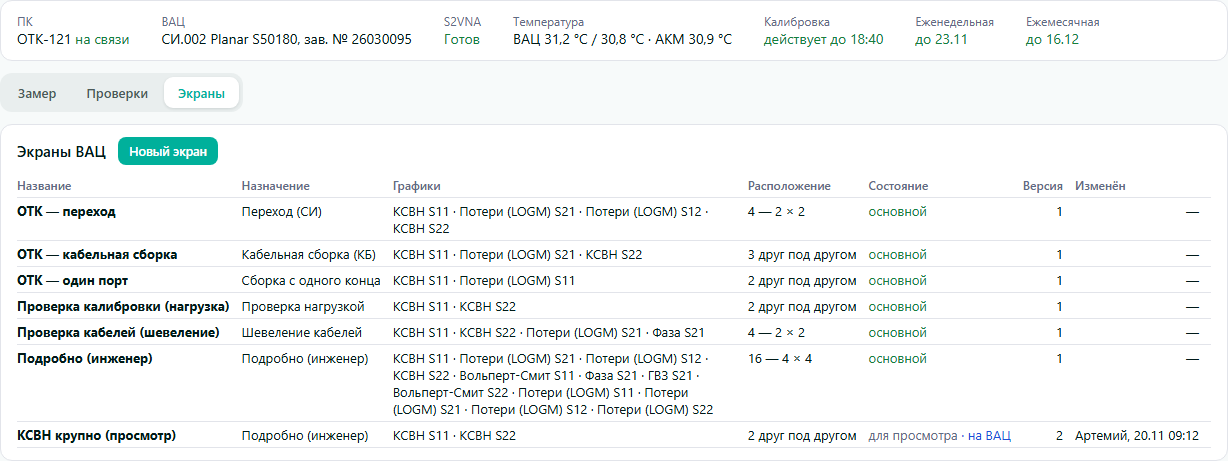
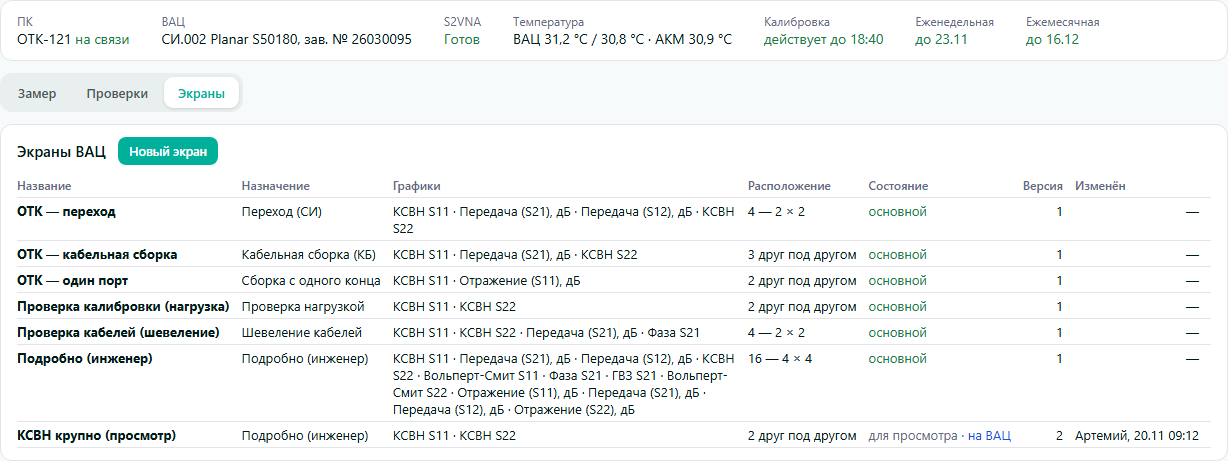
[quality] ВАЦ: неразрывные пробелы в единицах, подтверждения «Прервать» и «Закрыть сеанс», предупреждение о несохранённом экране, подписи графиков без кодов, цифры осей КСВН табличные

diff --git a/frontend/src/VnaBench.tsx b/frontend/src/VnaBench.tsx
@@ -1,8 +1,8 @@
 import { useEffect, useRef, useState, type FormEvent, type KeyboardEvent } from "react";
 import { ApiError, failureText, productionApi, type ProductionInstrument } from "./api";
-import { formatMoment, formatNumber, toNumber } from "./format";
+import { formatMoment, formatNumber, glueUnits, toNumber } from "./format";
 import { VswrChart } from "./VswrChart";
-import { ScreenSwitcher, VnaScreensEditor } from "./VnaScreensEditor";
+import { ScreenSwitcher, VnaScreensEditor, lossTitle } from "./VnaScreensEditor";
 import {
   CALIBRATION_REFUSALS,
   REFUSAL_FALLBACK,
@@ -51,7 +51,7 @@ export const STEP_TITLES: Record<VnaBenchStepKey, string> = {
 const STEP_ORDER: VnaBenchStepKey[] = ["calibration", "confidence", "load_port1", "load_port2"];
 const STEP_HINTS: Record<VnaBenchStepKey, string> = {
   calibration: "Подключите АКМ к концам обоих кабелей: порт 1 и порт 2. Кабели закрепите — после калибровки их не двигать. Калибровка идёт около 30 секунд, сразу за ней — доверительный тест.",
-  confidence: "Тест идёт сам сразу после калибровки — АКМ с кабелей не снимайте. Норма: передача ±0,1 дБ, отражение ±0,4 дБ до 10 ГГц и ±0,5 дБ выше.",
+  confidence: "Тест идёт сам сразу после калибровки — АКМ с кабелей не снимайте. Норма: передача ±0,1 дБ, отражение ±0,4 дБ до 10 ГГц и ±0,5 дБ выше.",
   load_port1: "Отключите АКМ, не сдвигая кабели. Наверните нагрузку LOAD 6650F27 на кабель порта 1 и затяните тарированным ключом. Норма — КСВН не больше 1,06 во всей полосе.",
   load_port2: "Перенесите нагрузку LOAD на кабель порта 2 и затяните ключом. Норма та же — КСВН не больше 1,06.",
 };
@@ -78,9 +78,9 @@ export const VERDICTS: Record<VnaBenchVerdict["code"], { label: string; tone: st
 };
 
 const CHECKS: { kind: VnaBenchCheckKind; title: string; what: string }[] = [
-  { kind: "flex", title: "Шевеление кабелей", what: "При каждой калибровке. LOAD на кабеле: КСВН остаётся ≤ 1,06; перемычка: S21 меняется не больше ±0,05 дБ." },
+  { kind: "flex", title: "Шевеление кабелей", what: "При каждой калибровке. LOAD на кабеле: КСВН остаётся ≤ 1,06; перемычка: S21 меняется не больше ±0,05 дБ." },
   { kind: "weekly", title: "Еженедельная — контрольная мера СИ.009", what: "Переход ADP1A СИ.009 сравнивается с эталонной кривой из его карточки: отклонение КСВН и S21 не больше U." },
-  { kind: "monthly", title: "Ежемесячная — меры 6650F27", what: "OPEN, SHORT, LOAD на каждом порту и перемычка: 0 дБм, ПЧ 1 кГц, три подключения с поворотом на 120°." },
+  { kind: "monthly", title: "Ежемесячная — меры 6650F27", what: "OPEN, SHORT, LOAD на каждом порту и перемычка: 0 дБм, ПЧ 1 кГц, три подключения с поворотом на 120°." },
 ];
 const CHECK_TITLES = Object.fromEntries(CHECKS.map((check) => [check.kind, check.title])) as Record<VnaBenchCheckKind, string>;
 
@@ -93,7 +93,7 @@ export function phaseHint(kind: VnaBenchCheckKind, phase: VnaBenchCheckPhase): s
       load_p1: "Наверните LOAD на кабель порта 1 и изогните кабель в рабочих пределах — КСВН должен остаться не больше 1,06.",
       load_p2: "Перенесите LOAD на кабель порта 2 и изогните кабель в рабочих пределах — КСВН должен остаться не больше 1,06.",
       thru_memory: "Соедините концы кабелей перемычкой и держите кабели в рабочем положении — прибор запомнит графики.",
-      thru_flex: "Изогните кабели в рабочих пределах — S21 должен меняться не больше чем на ±0,05 дБ.",
+      thru_flex: "Изогните кабели в рабочих пределах — S21 должен меняться не больше чем на ±0,05 дБ.",
     }[phase.key] ?? phase.label;
   }
   if (kind === "weekly") {
@@ -144,7 +144,7 @@ export function VnaBench({ canEdit }: { canEdit: boolean }) {
     return () => { active = false; };
   }, [attempt]);
 
-  // Пока агент выполняет команду — опрос раз в 2 с; без команды экран не дёргает сервер.
+  // Пока агент выполняет команду — опрос раз в 2 с; без команды экран не дёргает сервер.
   const polling = sessionBusy(state);
   useEffect(() => {
     if (!polling) return;
@@ -222,7 +222,7 @@ export function VnaBench({ canEdit }: { canEdit: boolean }) {
     {session?.command && <div className="vna-bench-command" role="status">
       <span>Выполняется: {session.command.label}{session.command.state === "queued" ? " — ждёт агента" : ""}, с {clock(session.command.since)}</span>
       {canAct && <button type="button" className="secondary small" disabled={Boolean(busy)}
-        onClick={() => void act("abort", () => vnaBenchApi.abort(session.id, session.version))}>Прервать</button>}
+        onClick={() => { if (window.confirm(`Прервать «${session.command?.label}»? Измерение остановится, результат не сохранится.`)) void act("abort", () => vnaBenchApi.abort(session.id, session.version)); }}>Прервать</button>}
     </div>}
     <div className="seg-tabs sub" role="tablist" aria-label="Разделы рабочего места ВАЦ" onKeyDown={tabKeys}>
       {TABS.map((item) => <button key={item.id} type="button" role="tab" id={`vna-bench-tab-${item.id}`} aria-controls="vna-bench-panel"
@@ -233,7 +233,7 @@ export function VnaBench({ canEdit }: { canEdit: boolean }) {
       {!session && tab === "measure" && <div className="panel vna-bench-start">
         <p>Сеанс не открыт. Перед началом: ВАЦ включён и прогрет не меньше 40 минут, S2VNA показывает «Готов», АКМ подключён по USB
           и горит зелёным, разъёмы осмотрены и почищены. Сеанс для СИ и проверок калибруется на сетке «ОТК — переход»
-          (10 МГц – 18 ГГц); для КБ найдите изделие ниже — сеанс откроется на полосе его ЭТК.</p>
+          (10 МГц – 18 ГГц); для КБ найдите изделие ниже — сеанс откроется на полосе его ЭТК.</p>
         {canAct && state.device.s2vna_ready === false && <p className="tone-warn">Начать можно, когда S2VNA покажет «Готов».</p>}
         {canAct && <button type="button" className="primary" disabled={Boolean(busy) || notReady}
           onClick={() => void open()}>Открыть сеанс для СИ и проверок</button>}
@@ -247,7 +247,7 @@ export function VnaBench({ canEdit }: { canEdit: boolean }) {
         busy={Boolean(busy)} blockedStart={notReady} act={act} open={(assembly) => void open(assembly)} />}
       {session && tab === "measure" && canAct && <div className="form-actions vna-bench-close">
         <button type="button" className="secondary small" disabled={Boolean(busy) || Boolean(session.command)}
-          onClick={() => void act("close", () => vnaBenchApi.close(session.id, session.version))}>Закрыть сеанс</button>
+          onClick={() => { if (window.confirm("Закрыть сеанс? Калибровка и шаги текущего сеанса будут сброшены.")) void act("close", () => vnaBenchApi.close(session.id, session.version)); }}>Закрыть сеанс</button>
       </div>}
       {tab === "checks" && <ChecksPanel state={state} session={session} canEdit={canAct} busy={Boolean(busy)} act={act} />}
       {tab === "screens" && <VnaScreensEditor session={session} calibrationValid={state.calibration.valid} canEdit={canEdit}
@@ -259,8 +259,8 @@ export function VnaBench({ canEdit }: { canEdit: boolean }) {
 function temperatureText(state: VnaBenchState): string {
   const t = state.device.temperatures;
   if (!t) return "нет данных";
-  const vna = t.vna_c.map((value) => value === null ? "—" : `${num(value, 1)} °C`).join(" / ");
-  return `ВАЦ ${vna} · АКМ ${t.acm_c === null ? "—" : `${num(t.acm_c, 1)} °C`}`;
+  const vna = t.vna_c.map((value) => value === null ? "—" : `${num(value, 1)} °C`).join(" / ");
+  return `ВАЦ ${vna} · АКМ ${t.acm_c === null ? "—" : `${num(t.acm_c, 1)} °C`}`;
 }
 
 export function dueText(due: VnaBenchDue | undefined): { text: string; tone: string } {
@@ -287,7 +287,7 @@ function BenchHeader({ state }: { state: VnaBenchState }) {
       <div><dt>ПК</dt><dd>{device.pc_name ?? "—"} <span className={device.agent_online ? "tone-ok" : "tone-danger"}>{device.agent_online ? "на связи" : "нет связи"}</span></dd></div>
       <div><dt>ВАЦ</dt><dd>{device.instrument_number} {device.model}{device.serial ? `, зав. № ${device.serial}` : ""}</dd></div>
       <div><dt>S2VNA</dt><dd className={ready ? "tone-ok" : "tone-warn"}>{ready ? "Готов" : device.s2vna_ready === false
-        ? `Не готов${device.warmup_min !== null ? ` — прогрев ${device.warmup_min} из 40 мин` : ""}` : "нет данных"}</dd></div>
+        ? `Не готов${device.warmup_min !== null ? ` — прогрев ${device.warmup_min} из 40 мин` : ""}` : "нет данных"}</dd></div>
       <div><dt>Температура</dt><dd className="num">{temperatureText(state)}</dd></div>
       <div><dt>Калибровка</dt><dd className={calibration.valid ? "tone-ok" : "tone-warn"}>{calibration.valid
         ? `действует до ${clock(calibration.valid_until)}` : calibration.reason ?? "нет"}</dd></div>
@@ -341,16 +341,22 @@ function StepList({ session, calibrationValid, calibrationReason, canEdit, busy,
   </div>;
 }
 
+/** Подпись графика плана: сервер шлёт «Модуль S21» — на экране «Передача (S21), дБ» (только показ). */
+const planTraceTitle = (label: string) => {
+  const match = /^Модуль (S11|S21|S12|S22)$/.exec(label);
+  return match ? lossTitle(match[1] as "S11" | "S21" | "S12" | "S22") : label;
+};
+
 function PlanCard({ plan }: { plan: VnaBenchPlan }) {
   return <dl className="vna-bench-plan">
     <div><dt>Экран</dt><dd>{plan.screen_name || "—"}</dd></div>
-    <div><dt>Полоса</dt><dd className="num">{formatNumber(plan.band_mhz[0], { digits: 0 })} – {formatNumber(plan.band_mhz[1], { digits: 0 })} МГц</dd></div>
+    <div><dt>Полоса</dt><dd className="num">{formatNumber(plan.band_mhz[0], { digits: 0 })} – {formatNumber(plan.band_mhz[1], { digits: 0 })} МГц</dd></div>
     <div><dt>Точек</dt><dd className="num">{formatNumber(plan.points, { digits: 0 })}</dd></div>
     <div><dt>ПЧ</dt><dd className="num">{formatNumber(plan.ifbw_hz >= 1000 ? plan.ifbw_hz / 1000 : plan.ifbw_hz, { digits: 1 })} {plan.ifbw_hz >= 1000 ? "кГц" : "Гц"}</dd></div>
-    <div><dt>Мощность</dt><dd className="num">{formatNumber(plan.power_dbm, { digits: 1 })} дБм</dd></div>
-    <div className="wide"><dt>Графики</dt><dd>{plan.traces.map((trace) => `${trace.label} (${trace.scale})`).join(" · ") || "—"}</dd></div>
+    <div><dt>Мощность</dt><dd className="num">{formatNumber(plan.power_dbm, { digits: 1 })} дБм</dd></div>
+    <div className="wide"><dt>Графики</dt><dd>{plan.traces.map((trace) => glueUnits(`${planTraceTitle(trace.label)} (${trace.scale})`)).join(" · ") || "—"}</dd></div>
     <div className="wide"><dt>Норма</dt><dd>{plan.norm_vswr === null ? "не установлена — не оценивается"
-      : `КСВН ≤ ${vswr(plan.norm_vswr)}${plan.uncertainty !== null ? `, U ${num(plan.uncertainty, 3)}` : ""}`}{plan.norm_source ? ` · ${plan.norm_source}` : ""}</dd></div>
+      : `КСВН ≤ ${vswr(plan.norm_vswr)}${plan.uncertainty !== null ? `, U ${num(plan.uncertainty, 3)}` : ""}`}{plan.norm_source ? ` · ${glueUnits(plan.norm_source)}` : ""}</dd></div>
   </dl>;
 }
 
@@ -503,7 +509,7 @@ function ObjectPanel({ session, calibrationValid, canEdit, busy, blockedStart, a
               onChange={(event) => setFmaxText(event.target.value)} onBlur={applyFmax}
               onKeyDown={(event) => { if (event.key === "Enter") { event.preventDefault(); applyFmax(); } }} />
             {fmaxError ? <span id="vna-bench-fmax-error" className="tone-danger" role="alert">{fmaxError}</span>
-              : <span className="muted-text">{suggestedGhz !== null ? `по серии и норме: до ${formatNumber(suggestedGhz, { digits: 2 })} ГГц` : ""}</span>}
+              : <span className="muted-text">{suggestedGhz !== null ? `по серии и норме: до ${formatNumber(suggestedGhz, { digits: 2 })} ГГц` : ""}</span>}
           </label>
         </div>}
         {!wrongCalibration && <PlanCard plan={plan} />}
@@ -554,7 +560,7 @@ function ConnectionChip({ item, connection }: { item: VnaBenchItem; connection: 
 
 function verdictNumbers(verdict: VnaBenchVerdict, item: VnaBenchItem): string {
   const parts: string[] = [];
-  if (verdict.worst_vswr !== null) parts.push(`наибольший КСВН ${vswr(verdict.worst_vswr)}${verdict.worst_mhz !== null ? ` на ${formatNumber(verdict.worst_mhz, { digits: 0 })} МГц` : ""}`);
+  if (verdict.worst_vswr !== null) parts.push(`наибольший КСВН ${vswr(verdict.worst_vswr)}${verdict.worst_mhz !== null ? ` на ${formatNumber(verdict.worst_mhz, { digits: 0 })} МГц` : ""}`);
   if (verdict.norm_vswr !== null) parts.push(`норма ≤ ${vswr(verdict.norm_vswr)}`);
   if (verdict.uncertainty !== null) parts.push(`U ${num(verdict.uncertainty, 3)}`);
   const measured = item.connections.filter((connection) => connection.status === "passed" || connection.status === "failed").length;

diff --git a/frontend/src/VnaScreensEditor.tsx b/frontend/src/VnaScreensEditor.tsx
@@ -24,7 +24,7 @@ export const PURPOSES: Record<VnaScreenPurpose, string> = {
   load: "Проверка нагрузкой", flex: "Шевеление кабелей", engineer: "Подробно (инженер)",
 };
 export const FORMATS: Record<VnaScreenFormat, string> = {
-  SWR: "КСВН", MLOG: "Потери (LOGM)", PHAS: "Фаза", GDEL: "ГВЗ", SMIT: "Вольперт-Смит",
+  SWR: "КСВН", MLOG: "Модуль, дБ", PHAS: "Фаза", GDEL: "ГВЗ", SMIT: "Вольперт-Смит",
 };
 const LIMITS: Record<VnaScreenLimit, string> = { norm: "из нормы СИ", etk: "из ЭТК", fixed: "своё число", none: "без линии" };
 const PARAMS: VnaScreenParam[] = ["S11", "S21", "S12", "S22"];
@@ -45,12 +45,15 @@ export const LAYOUTS: { code: number; rows: number; cols: number; label: string 
   { code: 15, rows: 4, cols: 4, label: "16 — 4 × 4" },
 ];
 const MAX_TRACES = 16;
-/** Пример нормы для превью: линия «из нормы СИ» — КСВН 1,06 и потери 0,2 дБ; «из ЭТК» — КСВН 1,30. */
+/** Пример нормы для превью: линия «из нормы СИ» — КСВН 1,06 и потери 0,2 дБ; «из ЭТК» — КСВН 1,30. */
 const SAMPLE_NORM = { swr: 1.06, loss: -0.2, etk: 1.3 };
 
 export const layoutOf = (code: number) => LAYOUTS.find((layout) => layout.code === code)
   ?? { code, rows: 1, cols: 1, label: `код S2VNA ${code}` };
-export const traceTitle = (trace: Pick<VnaScreenTrace, "param" | "format">) => `${FORMATS[trace.format]} ${trace.param}`;
+/** Подпись графика на экране: без кодов формата (LOGM) — «Отражение (S11), дБ», «Передача (S21), дБ». Только показ, в базе — как было. */
+export const lossTitle = (param: VnaScreenParam) => param === "S11" || param === "S22" ? `Отражение (${param}), дБ` : `Передача (${param}), дБ`;
+export const traceTitle = (trace: Pick<VnaScreenTrace, "param" | "format">) =>
+  trace.format === "MLOG" ? lossTitle(trace.param) : `${FORMATS[trace.format]} ${trace.param}`;
 const plain = (value: number | null | undefined) => (value === null || value === undefined ? "" : formatNumber(value, { digits: 6 }));
 
 // ---- черновик формы: числа — строками, как их набирают (запятая или точка) ------------------------------------------
@@ -125,7 +128,7 @@ export function fieldsOf(draft: Draft): { fields: VnaScreenFields } | { error: s
   for (const part of draft.markers.split(/[;\s]+/).filter(Boolean)) {
     const ghz = toNumber(part);
     if (ghz === null || ghz <= 0) return { error: `Маркеры: «${part}» — не частота в ГГц` };
-    if (ghz < LIMITS_OF.markerGhz[0] || ghz > LIMITS_OF.markerGhz[1]) return { error: `Маркеры: ${part} ГГц — вне диапазона ВАЦ 0,1–18000 МГц` };
+    if (ghz < LIMITS_OF.markerGhz[0] || ghz > LIMITS_OF.markerGhz[1]) return { error: `Маркеры: ${part} ГГц — вне диапазона ВАЦ 0,1–18000 МГц` };
     markers.push(Math.round(ghz * 1e9));
   }
   if (markers.length > LIMITS_OF.markers) return { error: `Маркеры: не больше ${LIMITS_OF.markers}` };
@@ -245,8 +248,8 @@ function Graph({ traces, number, cols }: { traces: DraftTrace[]; number: number;
       <line x1={left + w} x2={left + w} y1={top} y2={top + h} stroke="#9aa5b1" />
       <text x={left - 4} y={top + 4} textAnchor="end" fontSize="12" fill="#57606a">{formatNumber(high, { digits })}</text>
       <text x={left - 4} y={top + h + 3} textAnchor="end" fontSize="12" fill="#57606a">{formatNumber(low, { digits })}</text>
-      <text x={left} y={SVG_H - 4} fontSize="12" fill="#57606a">0,01 ГГц</text>
-      <text x={left + w} y={SVG_H - 4} textAnchor="end" fontSize="12" fill="#57606a">18 ГГц</text>
+      <text x={left} y={SVG_H - 4} fontSize="12" fill="#57606a">0,01 ГГц</text>
+      <text x={left + w} y={SVG_H - 4} textAnchor="end" fontSize="12" fill="#57606a">18 ГГц</text>
       {series.map((s) => <polyline key={s.key} points={s.points} fill="none" stroke={s.color} strokeWidth="1.5" />)}
       {line !== null && line >= low && line <= high && <line x1={left} x2={left + w} y1={y(line)} y2={y(line)} stroke="#c00000"
         strokeWidth="1.5" strokeDasharray="5 3" />}
@@ -277,6 +280,7 @@ function ScreenWindow({ screen, canEdit, canShow, showHint, onClose, onSaved, sh
   const [busy, setBusy] = useState(false);
   const dirty = JSON.stringify(draft) !== JSON.stringify(initial);
   const readOnly = !canEdit;
+  const requestClose = () => { if ((!dirty || !canEdit || window.confirm("Закрыть без сохранения изменений?"))) onClose(); };
   const patch = (change: Partial<Draft>) => { setDraft((current) => ({ ...current, ...change })); setNotice(""); };
   const patchTrace = (index: number, change: Partial<DraftTrace> | ((trace: DraftTrace) => DraftTrace)) =>
     setDraft((current) => ({ ...current, traces: current.traces.map((trace, i) => i !== index ? trace
@@ -302,13 +306,13 @@ function ScreenWindow({ screen, canEdit, canShow, showHint, onClose, onSaved, sh
     if (refusal) setError(refusal); else setNotice(`«${screen.name}» отправлен на ВАЦ — S2VNA покажет его через несколько секунд`);
   });
 
-  return <PageWindow label={screen ? `Экран ВАЦ ${screen.name}` : "Новый экран ВАЦ"} width={1320} close={onClose}>
+  return <PageWindow label={screen ? `Экран ВАЦ ${screen.name}` : "Новый экран ВАЦ"} width={1320} close={requestClose}>
     <form className="panel vna-screen-window" onSubmit={(event) => { event.preventDefault(); if (canEdit) save(); }}>
       <div className="vna-screen-head">
         <h2>{screen ? `Экран «${screen.name}»` : "Новый экран"}</h2>
         {screen && <span className="muted-text num">версия {screen.version}{screen.updated_by ? `, ${screen.updated_by}` : ""}
           {screen.updated_at ? `, ${formatMoment(screen.updated_at)}` : ""}</span>}
-        <button type="button" className="secondary small" onClick={onClose}>Закрыть</button>
+        <button type="button" className="secondary small" onClick={requestClose}>Закрыть</button>
       </div>
       {error && <div className="error-banner" role="alert">{error}</div>}
       {notice && <div className="success-banner" role="status">{notice}</div>}
@@ -381,7 +385,7 @@ function ScreenWindow({ screen, canEdit, canShow, showHint, onClose, onSaved, sh
       {canEdit && <button type="button" className="secondary small vna-screen-add" disabled={draft.traces.length >= MAX_TRACES}
         onClick={() => setDraft((current) => ({ ...current, traces: [...current.traces, { ...NEW_TRACE }] }))}>Добавить график</button>}
       <h3>Превью на примерных данных</h3>
-      <p className="muted-text">Линия «из нормы СИ» показана для примера нормы КСВН 1,06 и потерь 0,2 дБ, «из ЭТК» — КСВН 1,30;
+      <p className="muted-text">Линия «из нормы СИ» показана для примера нормы КСВН 1,06 и потерь 0,2 дБ, «из ЭТК» — КСВН 1,30;
         на приборе — норма объекта замера.</p>
       <ScreenPreview draft={draft} />
       <div className="form-actions vna-screen-actions">

diff --git a/frontend/src/VnaBench.test.tsx b/frontend/src/VnaBench.test.tsx
@@ -21,7 +21,7 @@ afterEach(() => { vi.restoreAllMocks(); vi.useRealTimers(); });
 const step = (key: VnaBenchStep["key"], status: VnaBenchStep["status"], text: string | null = null): VnaBenchStep =>
   ({ key, status, result_text: text, refusal: null, finished_at: status === "pending" ? null : "2026-11-19T14:10:00+03:00" });
 const allPassed: VnaBenchStep[] = [
-  step("calibration", "passed"), step("confidence", "passed", "передача 0,031 дБ ≤ 0,1; отражение 0,12 дБ ≤ 0,4/0,5"),
+  step("calibration", "passed"), step("confidence", "passed", "передача 0,031 дБ ≤ 0,1; отражение 0,12 дБ ≤ 0,4/0,5"),
   step("load_port1", "passed", "КСВН 1,032 ≤ 1,06"), step("load_port2", "passed", "КСВН 1,028 ≤ 1,06"),
 ];
 
@@ -52,7 +52,7 @@ const kb: VnaBenchTarget = { kind: "assembly", task_id: "t1", task_number: "ПЗ
   item: "591К.3.КБ1", operation_id: "op-vswr" };
 const plan: VnaBenchPlan = {
   screen_name: "ОТК — переход", band_mhz: [10, 18000], points: 1601, ifbw_hz: 1000, power_dbm: 0,
-  traces: [{ label: "КСВН S11", scale: "1…1,1" }, { label: "Модуль S21", scale: "−0,5…0 дБ" }],
+  traces: [{ label: "КСВН S11", scale: "1…1,1" }, { label: "Модуль S21", scale: "−0,5…0 дБ" }],
   norm_vswr: 1.06, norm_source: "ADP1A, изготовитель", uncertainty: 0.012,
   connection_hint: "Цепочка «напрямую»: сторона 1 — к порту 1 ВАЦ, сторона 2 — к порту 2", refusal: null,
 };
@@ -115,7 +115,7 @@ it("opens a session on the adapter grid and confirms the calibration; the confid
 
 it("offers only a new calibration after a failed confidence test", async () => {
   vi.spyOn(vnaBenchApi, "state").mockResolvedValue(state({ session: session({ steps: [step("calibration", "passed"),
-    { ...step("confidence", "failed", "передача 0,141 дБ ≤ 0,1"), refusal: { code: "calibration_required", message: "…" } }] }) }));
+    { ...step("confidence", "failed", "передача 0,141 дБ ≤ 0,1"), refusal: { code: "calibration_required", message: "…" } }] }) }));
   const run = vi.spyOn(vnaBenchApi, "runStep").mockResolvedValue(state());
   render(<VnaBench canEdit />);
   expect(await screen.findByText(/Калибровка не подтверждена/)).toBeInTheDocument();
@@ -149,7 +149,7 @@ it("finds an adapter, shows its plan card with the fixture chain and the suggest
   expect(screen.getByText("1 601")).toBeInTheDocument();
   expect(screen.getByText("1 кГц")).toBeInTheDocument();
   expect(screen.getByText("0 дБм")).toBeInTheDocument();
-  expect(screen.getByText("КСВН S11 (1…1,1) · Модуль S21 (−0,5…0 дБ)")).toBeInTheDocument();
+  expect(screen.getByText("КСВН S11 (1…1,1) · Передача (S21), дБ (−0,5…0 дБ)")).toBeInTheDocument();
   expect(screen.getByText("КСВН ≤ 1,06, U 0,012 · ADP1A, изготовитель")).toBeInTheDocument();
   expect(screen.getByText(/Цепочка «напрямую»/)).toBeInTheDocument();
   expect(screen.getByText("по серии и норме: до 18 ГГц")).toBeInTheDocument();
@@ -307,8 +307,13 @@ it("polls the state while the agent runs a command and offers to abort it", asyn
   expect(await screen.findByText("Выполняется: калибровка АКМ, с 14:30")).toBeInTheDocument();
   await act(async () => { await vi.advanceTimersByTimeAsync(2100); });
   await waitFor(() => expect(read.mock.calls.length).toBeGreaterThanOrEqual(2));
+  const confirm = vi.spyOn(window, "confirm").mockReturnValueOnce(false).mockReturnValueOnce(true);
+  fireEvent.click(screen.getByRole("button", { name: "Прервать" }));
+  expect(confirm).toHaveBeenCalledTimes(1);
+  expect(abort).not.toHaveBeenCalled();
   fireEvent.click(screen.getByRole("button", { name: "Прервать" }));
   await waitFor(() => expect(abort).toHaveBeenCalledWith("s1", 3));
+  confirm.mockRestore();
   const calls = read.mock.calls.length;
   await act(async () => { await vi.advanceTimersByTimeAsync(5000); });
   expect(read.mock.calls.length).toBe(calls);
@@ -351,7 +356,7 @@ it("words the server's flex, weekly and monthly phases and the due states", () =
   const phase = (key: string, label = "", no: number | null = null) =>
     ({ key, label, status: "pending" as const, connection_no: no, connections_total: no ? 3 : null, result_text: null });
   expect(phaseHint("flex", phase("load_p2"))).toMatch(/^Перенесите LOAD на кабель порта 2/);
-  expect(phaseHint("flex", phase("thru_flex"))).toBe("Изогните кабели в рабочих пределах — S21 должен меняться не больше чем на ±0,05 дБ.");
+  expect(phaseHint("flex", phase("thru_flex"))).toBe("Изогните кабели в рабочих пределах — S21 должен меняться не больше чем на ±0,05 дБ.");
   expect(phaseHint("weekly", phase("si009"))).toMatch(/^Подключите контрольный переход СИ.009/);
   expect(phaseHint("monthly", phase("thru", "MA6666B (THRU), перемычка", 1)))
     .toBe("Соедините концы кабелей перемычкой из набора (MA6666B (THRU), перемычка). Подключение 1 из 3.");
@@ -453,3 +458,17 @@ it("switches the bench tabs with the arrow keys", async () => {
   fireEvent.keyDown(screen.getByRole("tab", { name: "Проверки" }), { key: "Home" });
   expect(screen.getByRole("tab", { name: "Замер", selected: true })).toHaveFocus();
 });
+
+it("asks before closing the session and closes it only after the confirmation", async () => {
+  vi.spyOn(vnaBenchApi, "state").mockResolvedValue(state({ session: session({ steps: allPassed }) }));
+  const close = vi.spyOn(vnaBenchApi, "close").mockResolvedValue(state({ session: null }));
+  const confirm = vi.spyOn(window, "confirm").mockReturnValueOnce(false).mockReturnValueOnce(true);
+  render(<VnaBench canEdit />);
+  fireEvent.click(await screen.findByRole("button", { name: "Закрыть сеанс" }));
+  expect(close).not.toHaveBeenCalled();
+  fireEvent.click(screen.getByRole("button", { name: "Закрыть сеанс" }));
+  await waitFor(() => expect(close).toHaveBeenCalledWith("s1", 3));
+  expect(confirm).toHaveBeenCalledTimes(2);
+  confirm.mockRestore();
+});
+

diff --git a/frontend/src/VnaScreensEditor.test.tsx b/frontend/src/VnaScreensEditor.test.tsx
@@ -34,7 +34,7 @@ it("lists screens in Russian with purpose, graphs, layout and state", async () =
   const table = await screen.findByRole("table", { name: "Экраны ВАЦ" });
   const rows = within(table).getAllByRole("row");
   expect(rows[1].textContent).toContain("Переход (СИ)");
-  expect(rows[1].textContent).toContain("КСВН S11 · Потери (LOGM) S21");
+  expect(rows[1].textContent).toContain("КСВН S11 · Передача (S21), дБ");
   expect(rows[1].textContent).toContain("4 — 2 × 2");
   expect(rows[1].textContent).toContain("основной");
   expect(rows[2].textContent).toContain("на ВАЦ");
@@ -155,10 +155,31 @@ it("refuses before saving what the server refuses: graph count, flex memory, mar
   expect("fields" in fieldsOf({ ...draft, traces: Array(13).fill(s11) })).toBe(true);
   expect(fieldsOf({ ...draft, purpose: "flex" })).toEqual(
     { error: "Экран шевеления сравнивает с памятью — отметьте «Память» хотя бы у одного графика" });
-  expect(fieldsOf({ ...draft, markers: "1; 19" })).toEqual({ error: "Маркеры: 19 ГГц — вне диапазона ВАЦ 0,1–18000 МГц" });
+  expect(fieldsOf({ ...draft, markers: "1; 19" })).toEqual({ error: "Маркеры: 19 ГГц — вне диапазона ВАЦ 0,1–18000 МГц" });
   expect(fieldsOf({ ...draft, markers: "3; 1" })).toEqual({ error: "Маркеры: по возрастанию частоты, без повторов" });
   expect(fieldsOf({ ...draft, markers: Array.from({ length: 16 }, (_, i) => String(i + 1)).join("; ") }))
     .toEqual({ error: "Маркеры: не больше 15" });
   const big = { ...draft.traces[1], mode: "manual" as const, pdiv: "2000000", rlev: "0", rpos: "10" };
   expect(fieldsOf({ ...draft, traces: [big] })).toEqual({ error: "График 1: деление — не больше 1 000 000" });
 });
+
+it("warns before closing a window with unsaved edits and closes silently without them", async () => {
+  vi.spyOn(vnaScreensApi, "list").mockResolvedValue({ screens: [adapter] });
+  const confirm = vi.spyOn(window, "confirm").mockReturnValueOnce(false).mockReturnValueOnce(true);
+  render(<VnaScreensEditor session={null} calibrationValid={false} canEdit show={vi.fn()} />);
+  fireEvent.click(await screen.findByText("ОТК — переход"));
+  let dialog = await screen.findByRole("dialog");
+  fireEvent.click(within(dialog).getAllByRole("button", { name: "Закрыть" })[0]);
+  expect(confirm).not.toHaveBeenCalled();
+  await waitFor(() => expect(screen.queryByRole("dialog")).toBeNull());
+  fireEvent.click(await screen.findByText("ОТК — переход"));
+  dialog = await screen.findByRole("dialog");
+  fireEvent.change(within(dialog).getByLabelText("Название"), { target: { value: "Переход крупно" } });
+  fireEvent.click(within(dialog).getAllByRole("button", { name: "Закрыть" })[0]);
+  expect(confirm).toHaveBeenCalledWith("Закрыть без сохранения изменений?");
+  expect(screen.getByRole("dialog")).toBeTruthy();
+  fireEvent.click(within(screen.getByRole("dialog")).getAllByRole("button", { name: "Закрыть" })[0]);
+  await waitFor(() => expect(screen.queryByRole("dialog")).toBeNull());
+  confirm.mockRestore();
+});
+

diff --git a/frontend/src/VswrChart.tsx b/frontend/src/VswrChart.tsx
@@ -78,11 +78,11 @@ export function vswrChartSvg(props: VswrChartProps): string {
   }
   for (const value of ticks(yMin, yMax, 6)) {
     parts.push(`<line x1="${left}" x2="${left + plotW}" y1="${esc(py(value))}" y2="${esc(py(value))}" stroke="#d0d0d0" stroke-width="1"/>`,
-      `<text x="${left - 6}" y="${esc(py(value) + 4)}" text-anchor="end" font-size="11" fill="#000">${text(value, 2)}</text>`);
+      `<text x="${left - 6}" y="${esc(py(value) + 4)}" text-anchor="end" font-size="11" font-variant-numeric="tabular-nums" fill="#000">${text(value, 2)}</text>`);
   }
   for (const value of ticks(xMin, xMax, 8)) {
     parts.push(`<line x1="${esc(px(value))}" x2="${esc(px(value))}" y1="${top + plotH}" y2="${top + plotH + 4}" stroke="#000" stroke-width="1"/>`,
-      `<text x="${esc(px(value))}" y="${top + plotH + 16}" text-anchor="middle" font-size="11" fill="#000">${text(value, 0)}</text>`);
+      `<text x="${esc(px(value))}" y="${top + plotH + 16}" text-anchor="middle" font-size="11" font-variant-numeric="tabular-nums" fill="#000">${text(value, 0)}</text>`);
   }
   parts.push(`<rect x="${left}" y="${top}" width="${plotW}" height="${plotH}" fill="none" stroke="#000" stroke-width="1"/>`,
     `<text x="${left + plotW / 2}" y="${height - 6}" text-anchor="middle" font-size="12" fill="#000">Частота, МГц</text>`,

diff --git a/frontend/src/styles.css b/frontend/src/styles.css
@@ -5339,6 +5339,7 @@ tr.order-row-late > td:first-child { box-shadow: inset 3px 0 0 var(--tone-danger
 }
 a.button-link { display: inline-block; text-decoration: none; text-align: center; }
 .vswr-chart { margin: 8px 0 4px; padding: 8px; border: 1px solid var(--border); border-radius: 8px; background: #fff; }
+.vswr-chart svg text { font-variant-numeric: tabular-nums; }
 .vswr-chart svg { display: block; width: 100%; height: auto; max-height: 340px; }
 .vswr-problems { display: block; padding: 0 20px; }
 .vswr-result { display: flex; flex-wrap: wrap; align-items: center; gap: 8px; margin: 0 0 8px; font-size: 14px; }

diff --git a/frontend/src/VswrChart.test.tsx b/frontend/src/VswrChart.test.tsx
@@ -46,3 +46,9 @@ it("draws the «norm ± U» band and a fine scale for instrument norms near 1,06
   expect(vswrChartSvg({ trace: [{ mhz: 10, vswr: 1.065 }], normMax: 1.06, fineScale: true, maxVswr: 1.065, maxMhz: 10 })).toContain("Максимум 1,065 на 10");
   expect(vswrChartSvg({ trace, normMax: 2.06 })).not.toContain("Норма ± U");
 });
+
+it("sets tabular numerals on the axis numbers by attribute only", () => {
+  const svg = vswrChartSvg({ trace, normMax: 1.5 });
+  expect(svg).toContain('font-variant-numeric="tabular-nums"');
+  expect(svg).not.toContain("style=");
+});

diff --git a/frontend/src/format.ts b/frontend/src/format.ts
@@ -172,3 +172,6 @@ export function kbLabel(project: string | null | undefined, index?: string | nul
   }
   return left ? `${left} · ${right}` : right;
 }
+
+/** Текст от сервера: пробел между числом и единицей (дБ, ГГц, °C…) — неразрывный, чтобы «0,2 дБ» не рвалось по строкам. */
+export const glueUnits = (text: string): string => text.replace(/(\d) (дБм|дБ|ГГц|МГц|кГц|Гц|мин|°C)(?![\p{L}])/gu, `$1${NBSP}$2`);
